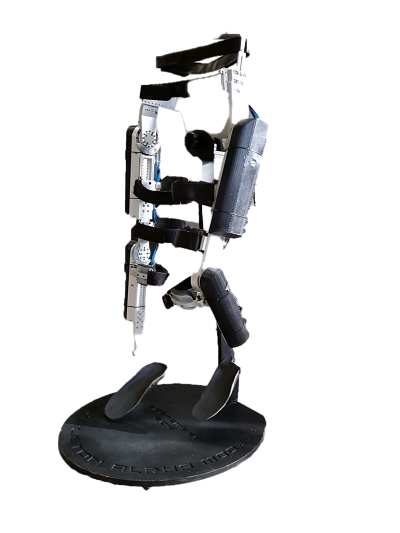
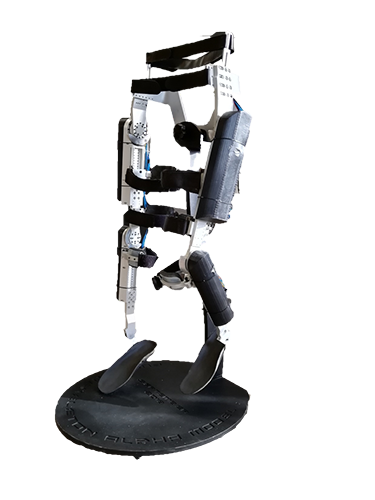
final is added

diff --git a/components/IndexProjects.vue b/components/IndexProjects.vue
@@ -16,14 +16,14 @@
       <IndexProjectItem  :is-right="true" project-name="FUM ExoSkeleton - II"  project-subtitle="" project-link="/fumexoskeleton1" project-picture="exo2.png" >
         Double joint Light weight Lower limb exoskeleton for rehabilitation
       </IndexProjectItem>
-      <IndexProjectItem :is-right="false" project-name="FUM Exoskeleton - I"  project-subtitle="" project-link="/fumexoskeleton2" project-picture="exo1.png">
+      <IndexProjectItem :is-right="false" project-name="FUM Exoskeleton - I"  project-subtitle="" project-link="/fumexoskeleton2" project-picture="exo1p.png">
         a hard, laminated plastic shell that provides the weight-bearing support
 
       </IndexProjectItem>
-      <IndexProjectItem :is-right="true" project-name="FUM Knee Exoskeleton"  project-subtitle="" project-link="/fumkneeexoskeleton" project-picture="fum-knee.jpg">
+      <IndexProjectItem :is-right="true" project-name="FUM Knee Exoskeleton"  project-subtitle="" project-link="/fumkneeexoskeleton" project-picture="fum-knee.png">
         Series elastic actuator based knee orthosis
       </IndexProjectItem>
-      <IndexProjectItem :is-right="false" project-name="FUM Knee Physio"  project-subtitle="" project-link="/fumkneeexoskeleton" project-picture="Physio.jpg">
+      <IndexProjectItem :is-right="false" project-name="FUM Knee Physio"  project-subtitle="" project-link="/fumkneephysio" project-picture="Physio.png">
         Knee rehabilitation enabling game based therapy
       </IndexProjectItem>
 
@@ -36,7 +36,7 @@
         Biologically inspired hand with articulated finger motion
       </IndexProjectItem>
 
-      <IndexProjectItem :is-right="true" project-name="FUM Bionic Hand L-I"  project-subtitle="" project-link="/fumbionichand-L1" project-picture="NoPic.png">
+      <IndexProjectItem :is-right="true" project-name="FUM Bionic Hand L-I"  project-subtitle="" project-link="/fumbionichand-L1" project-picture="FUMbionichandL1.png">
         7 DoF bionic hand prosthetic with independent finger manipulation
       </IndexProjectItem>
     </div>
@@ -59,6 +59,10 @@
         6 DOF articulated arm
       </IndexProjectItem>
 
+      <IndexProjectItem :is-right="false" project-name="FUM Delta"  project-subtitle="" project-link="/fumdelta" project-picture="delta.png">
+        Four axis, Pick up and place and Sorting  Robot
+      </IndexProjectItem>
+
       <IndexProjectItem :is-right="true" project-name="FUM New6R"  project-subtitle="" project-link="/fumnew6r" project-picture="6r.png">
         New 6 DOF articulated arm
       </IndexProjectItem>
@@ -67,7 +71,7 @@
 
     <div class="hjtabgroups" v-show="simulatorRobots">
 
-      <IndexProjectItem :is-right="false" project-name="FUM Industrial Large Size Stewart"  project-subtitle="" project-link="/fumindustrialscara" project-picture="large-stewart.jpg">
+      <IndexProjectItem :is-right="false" project-name="FUM Industrial Large Size Stewart"  project-subtitle="" project-link="/fumlargestewart" project-picture="large-stewart.png">
         Large 6-DoF parallel manipulator as a motion simulator
       </IndexProjectItem>
 
@@ -96,7 +100,7 @@
         An ultraviolet radiation autonomous platform for indoors disinfection
       </IndexProjectItem>
 
-      <IndexProjectItem :is-right="true" project-name="FUM Lawn Mower"  project-subtitle="" project-link="/fumlawnmower" project-picture="LawnMower.jpg" :picture-cover="true">
+      <IndexProjectItem :is-right="true" project-name="FUM Lawn Mower"  project-subtitle="" project-link="/fumlawnmower" project-picture="FUM-Lawnmower.png" >
         Fully Autonomous lawn Mower
       </IndexProjectItem>
 
@@ -108,7 +112,7 @@
 
     <div class="hjtabgroups" v-show="actuatorRobots">
 
-      <IndexProjectItem :is-right="false" project-name="FUM Linear SEA"  project-subtitle="" project-link="/fumlinearSEA" project-picture="NoPic.png">
+      <IndexProjectItem :is-right="false" project-name="FUM Linear SEA"  project-subtitle="" project-link="/fumlinearSEA" project-picture="LSEA.jpg">
         Linear series elastic actuator with high impact tolerance
       </IndexProjectItem>
 

diff --git a/pages/index.vue b/pages/index.vue
@@ -3,18 +3,18 @@
 
     <FirstSection/>
 
-    <section id="about" class="spotlight style1 bottom">
+    <section class="spotlight style1 bottom" id="about" >
       <span class="imagemain"><img src="~/assets/lab.jpg" alt="" style="width: 100%"/></span>
       <div class="content">
         <div class="container">
           <div class="row">
-            <div class="col-3 col-12-medium">
+            <div class="col-lg-6 col-lg-12">
               <header>
-                <h2>About us</h2>
-                <p>Ferdowsi University of Mashhad Robotic Labratory</p>
+                <h3 style="font-weight: bold; font-size: x-large">About us</h3>
+                <p style="font-size: large">Ferdowsi University of Mashhad Robotic Labratory</p>
               </header>
             </div>
-            <div class="col-9 col-12-medium">
+            <div class="col-lg-9 col-lg-12">
 
               <p style="text-align: justify">The Robotics Laboratory of Ferdowsi University of Mashhad (FUM Robotics) was established in 2010. As one of the most comprehensive centers for multi-disciplinary robotics research in Iran, our lab is dedicated not only to education and research, but also addressing industrial needs. The Center is led by Professor Alireza Akbarzadeh and is composed of academic faculty and researchers, providing undergrad, MSs, and PhD students with necessary tools to enhance their knowledge and working expertise in this field.
                 The laboratory currently encompasses four specialized interdisciplinary working groups in the fields of medical and rehabilitation robotics, industrial robotic arms, robotic simulators, and mobile platforms. These fields in turn employ the collaborative output of dynamic design and modeling, optimization, control and construction. The lab provides space for on-site robot design, with a dedicated workshop and conference room, and is able to accommodate over 30 attendees.
@@ -108,6 +108,11 @@
                     Actuated Knee Exoskeleton</h4>
                   <p><fa :icon="['fa','users']"style="margin-right: 10px"/>Iman Kardan- Alireza Akbarzadeh</p>
                 </li>
+                <p style="font-size: 18px"> For more information about latest articles, <br> See Also  <a style="color:white; font-weight: bold" href="https://scholar.google.com/citations?user=DhU-W1gAAAAJ&hl=en">
+                  Alireza Akbarzadeh </a>
+                   and <a style="color: white;  font-weight: bold"  href="https://scholar.google.com/citations?user=2gfJ9aAAAAAJ&hl=en">
+                    Iman Kardan </a>
+                </p>
 
               </ul>
             </div>
@@ -137,7 +142,7 @@
       </div>
       <ul class="copyright">
         <li>&copy; FUM Robotics Lab. All rights reserved.</li>
-        <li>Design: <a href="http://html5up.net">HTML5 UP </a> -  <a href="http://hamedj.ir"> Edited by Hamed Jafarzadeh</a> & Soroush Ahoye Atashin</li>
+        <li>Design: <a href="http://html5up.net">HTML5 UP </a> -  <a href="http://hamedj.ir"> Edited by Hamed Jafarzadeh</a> & Soroush Ahooye Atashin</li>
       </ul>
     </footer>
 

diff --git a/components/FirstSection.vue b/components/FirstSection.vue
@@ -26,11 +26,18 @@
             <span  class="slider image fade-out" style="display: none"><img class="sliderimg" src="~/assets/ProjectPictures/6r.png" alt=""/></span>
             <span  class="slider image fade-out" style="display: none"><img class="sliderimg"  src="~/assets/ProjectPictures/hand2.png" alt=""/></span>
             <span  class="slider image fade-out" style="display: none"><img class="sliderimg" src="~/assets/ProjectPictures/fumstewartmidsize.png" alt=""/></span>
+            <span  class="slider image fade-out" style="display: none"><img class="sliderimg" src="~/assets/ProjectPictures/exo1p.png" alt=""/></span>
+            <span  class="slider image fade-out" style="display: none"><img class="sliderimg" src="~/assets/ProjectPictures/exo2.png" alt=""/></span>
+            <span  class="slider image fade-out" style="display: none"><img class="sliderimg" src="~/assets/ProjectPictures/Zippy.png" alt=""/></span>
+            <span  class="slider image fade-out" style="display: none"><img class="sliderimg" src="~/assets/ProjectPictures/fumstewartmidsize.png" alt=""/></span>
+            <span  class="slider image fade-out" style="display: none"><img class="sliderimg" src="~/assets/ProjectPictures/fumvirub.png" alt=""/></span>
+            <span  class="slider image fade-out" style="display: none"><img class="sliderimg" src="~/assets/ProjectPictures/lpsimulator.png" alt=""/></span>
+            <span  class="slider image fade-out" style="display: none"><img class="sliderimg" src="~/assets/ProjectPictures/FUM-Lawnmower.png" alt=""/></span>
+            <span  class="slider image fade-out" style="display: none"><img class="sliderimg" src="~/assets/ProjectPictures/linearactuator1.png" alt=""/></span>
           </div>
         </b-col>
       </b-row>
-
-    <a href="#about" class="nextButton goto-next scrolly">Next</a>
+    <a id="nextButton" href="#about" class="nextButton goto-next scrolly">Next</a>
   </section>
   </div>
 </template>

diff --git a/pages/join.vue b/pages/join.vue
@@ -17,9 +17,11 @@
         <li>Biomedical engineering</li>
       </ul>
 
-      <b>Requirements:</b> <br>Outstanding grades at a top university, experience in relevant field (industrial robots, mobile manipulation, actuation and design, control, learning, planning), good programming skills in C++ and ROS
+      <b>Requirements:</b> <br style="text-align: justify">Outstanding grades at a top university, experience in relevant field (industrial robots, mobile manipulation, actuation and design, control, learning, planning), good programming skills in C++ and ROS. <br>
 
-      Please send your application (CV, sample projects and motivation letter) to <span style="color: #39c088">fumroboticslab[at]gmail.com</span>. Incomplete applications will not be evaluated.
+      Please send your application (CV, sample projects and motivation letter) to <span style="color: #39c088">fumroboticslab@gmail.com</span>. Incomplete applications will not be evaluated.
+      <br>
+      <br>
   </div>
   </div>
 </template>

diff --git a/pages/people.vue b/pages/people.vue
@@ -152,7 +152,7 @@
           <h5>amini.samane@ymail.com</h5>
 
           <h6>Ph.D. Mechanical Engineering, Ferdowsi University, Mashhad, Iran, <br> (2017/present)</h6>
-          <h6>M.Sc. Mechanical Engineering, Ferdowsi University, Mashhad, Iran, (2011-2013)</h6>
+          <h6>M.Sc. Mechanical Engineering, Ferdowsi University, Mashhad, Iran, <br> (2011-2013)</h6>
 
           <h6>Research Interests/Specializations: Medical and Rehabilitation Robotics, Bio-Inspired Robot, Assistive
             control, Dynamic and Control Humanoid Robots, Assistive Devices </h6>
@@ -406,7 +406,7 @@
       </b-row>
       <b-row class="text-center">
         <b-col>
-          <div class="col-4">
+          <div class="col-lg-4">
             <img src="../assets/people/hamedjafarzadeh.JPG" style="width: 150px; border-radius: 20%">
             <h5>Hamed Jafarzadeh</h5>
             <h5>hamed.jafarzadeh@tyndall.ie</h5>

diff --git a/pages/projects/fumdelta.vue b/pages/projects/fumdelta.vue
@@ -1,0 +1,30 @@
+<template>
+  <div id="page-wrapper">
+    <div class="content container">
+      <h2>Fum Delta</h2>
+      <br>
+      <br>
+      <div class="row">
+        <div class="col-12 justify-content-center text-center mx-auto my-auto" >
+          <img src="../../assets/Robot.png" style="width: 30%; border-radius: 20%">
+        </div>
+      </div>
+      <div class="row">
+        <p>The Semi industrial 3PSP is of type 3PSP parallel robot. It can run in any of the three X,Y,Z,ϑ,φ,λ degrees of freedom, prominently used for orientating tools and solar panels. The robot has an open control architecture suitable for research applications. </p>
+      </div>
+
+    </div>
+
+
+  </div>
+</template>
+
+<script>
+export default {
+name: "Delta"
+}
+</script>
+
+<style scoped>
+
+</style>

diff --git a/pages/projects/fumLPsim.vue b/pages/projects/fumLPsim.vue
@@ -2,14 +2,11 @@
   <div id="page-wrapper">
     <div class="content container">
       <h2> FUM LP Simulator </h2>
-      <br>
-      <br>
       <div class="row">
         <div class="col-12 justify-content-center text-center mx-auto my-auto" >
-          <img src="../../assets/ProjectPictures/lpsimulator.png" style="width: 50% ; border-radius: 20%">
+          <img src="../../assets/ProjectPictures/lpsimulator.png" style="width: 60% ; border-radius: 20%">
         </div>
       </div>
-      <br>
       <br>
       <div class="row">
         <li>Robot type: 6-RSU </li>

diff --git a/pages/projects/fumlargestewart.vue b/pages/projects/fumlargestewart.vue
@@ -6,7 +6,7 @@
       <br>
       <div class="row">
         <div class=" justify-content-center text-center mx-auto my-auto" >
-          <img src="../../assets/ProjectPictures/large-stewart.jpg" class="align-center" style="width: 40% ; border-radius: 20%" >
+          <img src="../../assets/ProjectPictures/large-stewart.png" class="align-center" style="width: 90% ; border-radius: 20%" >
         </div>
         </div>
       <br>

diff --git a/pages/projects/fumbionichand-L1.vue b/pages/projects/fumbionichand-L1.vue
@@ -6,7 +6,7 @@
       <br>
       <div class="row">
         <div class="col-12 justify-content-center text-center mx-auto my-auto" >
-          <img src="../../assets/ProjectPictures/FUMbionichandL1.jpg" style="width: 30%; border-radius: 20%">
+          <img src="../../assets/ProjectPictures/FUMbionichandL1.png" style="width: 30%; border-radius: 20%">
         </div>
       </div>
       <div class="row">

diff --git a/pages/projects/fumkneeexoskeleton.vue b/pages/projects/fumkneeexoskeleton.vue
@@ -6,7 +6,7 @@
       <br>
       <div class="row">
         <div class="col-12 justify-content-center text-center mx-auto my-auto" >
-          <img src="../../assets/ProjectPictures/fum-knee.jpg" style="width: 20% ; border-radius: 20%">
+          <img src="../../assets/ProjectPictures/fum-knee.png" style="width: 20% ; border-radius: 20%">
         </div>
       </div>
       <div class="row">

diff --git a/pages/projects/fumkneephysio.vue b/pages/projects/fumkneephysio.vue
@@ -5,7 +5,7 @@
       <br>
       <div class="row">
         <div class="col-12 justify-content-center text-center mx-auto my-auto" >
-          <img src="../../assets/ProjectPictures/Physio.jpg" style="width: 30% ; border-radius: 20%">
+          <img src="../../assets/ProjectPictures/Physio.png" style="width: 30% ; border-radius: 20%">
         </div>
       </div>
       <div class="row">

diff --git a/pages/projects/fumlawnmower.vue b/pages/projects/fumlawnmower.vue
@@ -6,7 +6,7 @@
       <br>
       <div class="row">
         <div class="col-12 justify-content-center text-center mx-auto my-auto" >
-          <img src="../../assets/ProjectPictures/LawnMower.jpg" style="width: 20% ; border-radius: 20%">
+          <img src="../../assets/ProjectPictures/LawnMower.jpg" style="width: 30% ; border-radius: 20%">
         </div>
       </div>
       <br>
